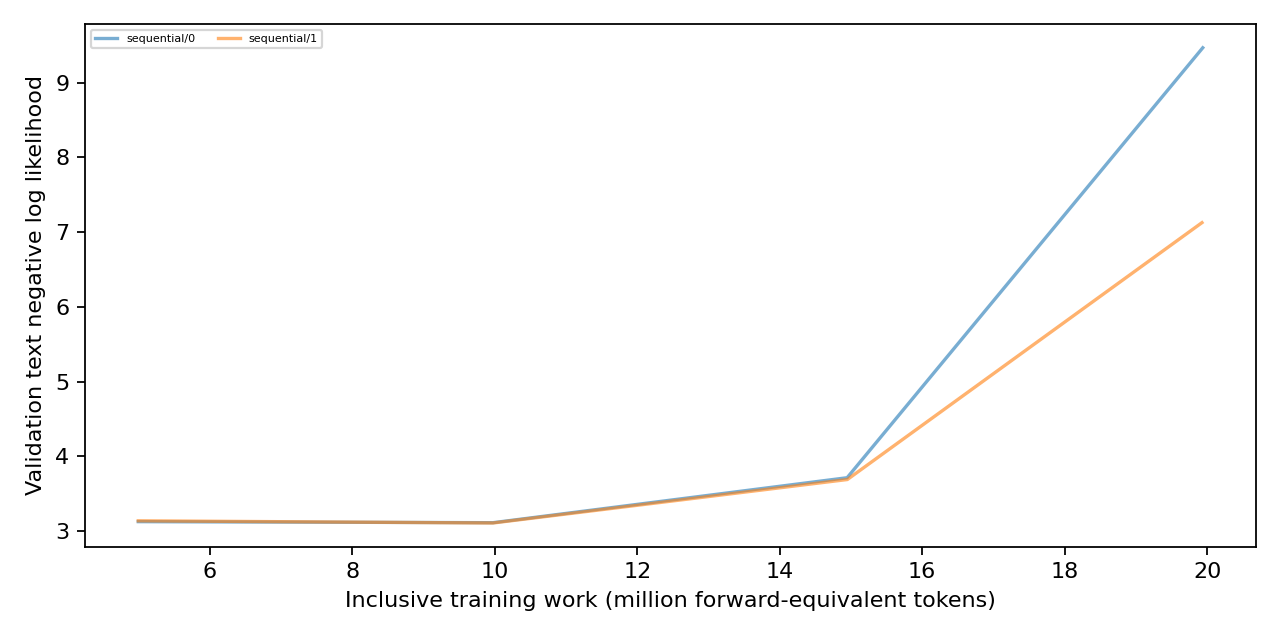
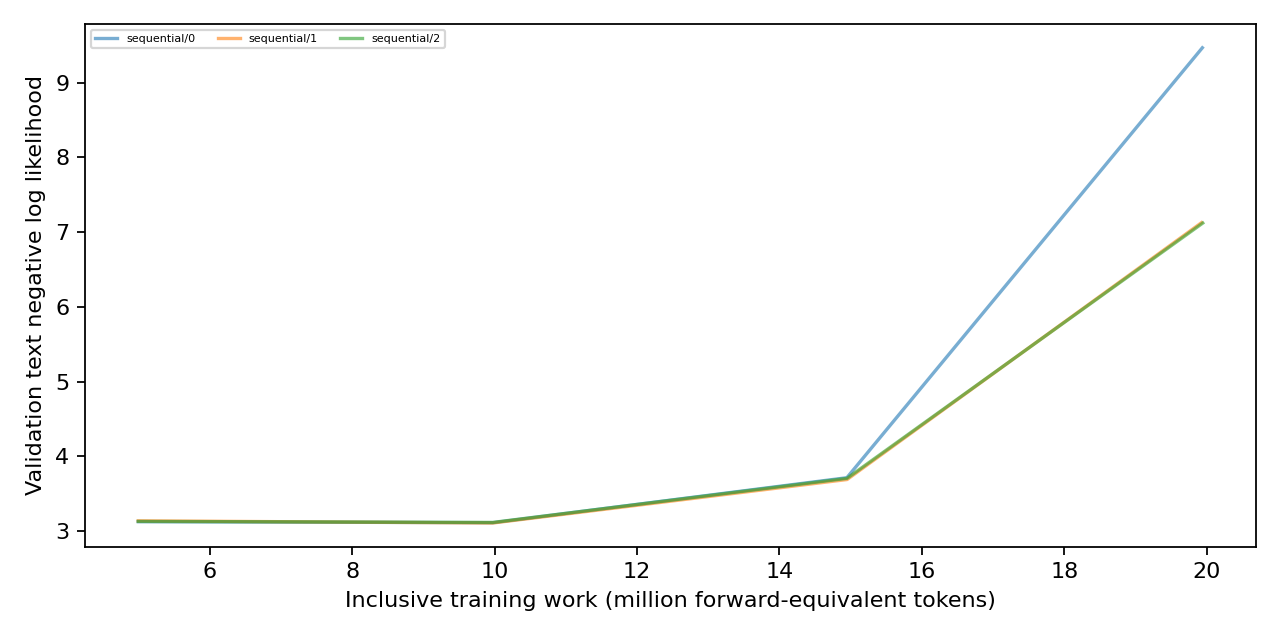
Report verified unified-training pilot progress

diff --git a/experiments/02_early_checkpoint_joint_objectives/results.md b/experiments/02_early_checkpoint_joint_objectives/results.md
@@ -6,7 +6,7 @@
 |---|---:|---|---:|---:|---:|---:|---|
 | sequential | 0 | complete | 19.939 | 0.2976 [0.2795, 0.3163] | 0.0152 [0.0098, 0.0233] | 9.6419 [9.5743, 9.7074] | 0.5312 [0.4701, 0.5915] / 0.3906 [0.3329, 0.4516] |
 | sequential | 1 | complete | 19.928 | 0.2639 [0.2466, 0.2820] | 0.0265 [0.0191, 0.0367] | 7.5458 [7.4961, 7.5963] | 0.5781 [0.5169, 0.6370] / 0.5000 [0.4392, 0.5608] |
-| sequential | 2 | pending | unavailable | unavailable | unavailable | unavailable | unavailable |
+| sequential | 2 | complete | 19.945 | 0.2912 [0.2733, 0.3098] | 0.0235 [0.0166, 0.0332] | 7.4249 [7.3635, 7.4874] | 0.5078 [0.4469, 0.5685] / 0.4414 [0.3819, 0.5027] |
 | parallel_joint | 0 | pending | unavailable | unavailable | unavailable | unavailable | unavailable |
 | parallel_joint | 1 | pending | unavailable | unavailable | unavailable | unavailable | unavailable |
 | parallel_joint | 2 | pending | unavailable | unavailable | unavailable | unavailable | unavailable |
@@ -33,7 +33,7 @@ NLL = negative log likelihood; preference raw ordering is the preference endpoin
 
 Intervals: 95% Wilson binary-item score, conditional on each trained model; p-val=n/a (no hypothesis test). Three seeds do not establish universal superiority. Aioli, CHORD (Controllable Harmonization of On- and Off-Policy Reinforcement Learning via Dynamic Weighting), and RPT (Reinforcement Pre-Training) are declared adaptations; exact CHERRY-RL identity remains unresolved.
 
-Complete: 2/24. See `expt_v1/PROTOCOL.md` and the program review reconciliation.
+Complete: 3/24. See `expt_v1/PROTOCOL.md` and the program review reconciliation.
 
 Seed uncertainty, two-stage seed/item intervals, initial-checkpoint changes and all paired comparisons: `expt_v1/analysis.json`. Missing trained seeds remain missing with separate accuracy sensitivity bounds. p-val=n/a throughout; no formal superiority verdict.
 

diff --git a/experiments/00_program/FINAL_STATUS.md b/experiments/00_program/FINAL_STATUS.md
@@ -1,6 +1,6 @@
 # Full-program status
 
-Verified cells: 26/48; failed: 0; interrupted: 0; pending: 22; unstarted at global bound: 0.
+Verified cells: 27/48; failed: 0; interrupted: 0; pending: 21; unstarted at global bound: 0.
 
 Full-program execution is incomplete. Required plan and implementation findings are reconciled; see acceptance.json.
 Results and uncertainty are in each experiment folder; no universal-superiority claim.
